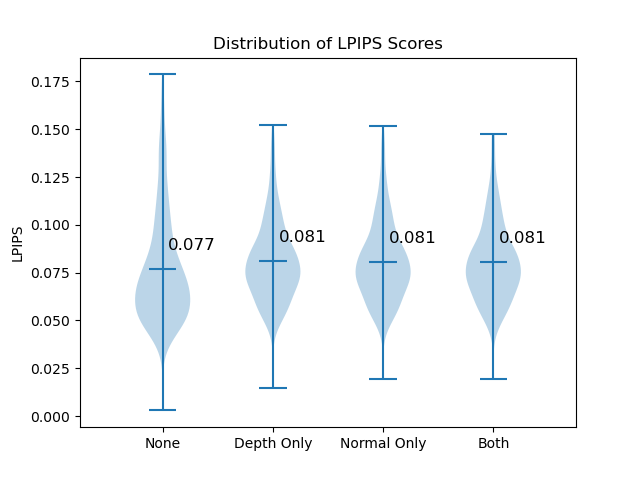
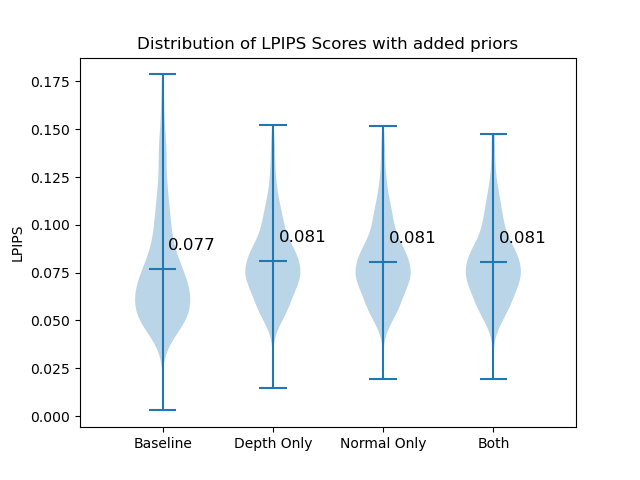
significance testing

Changed region(s): [[0.2188, 0.0625, 0.8125, 0.125], [0.1875, 0.9062, 0.3125, 0.9375]]

diff --git a/stats-code/significance_testing.py b/stats-code/significance_testing.py
@@ -1,0 +1,72 @@
+import argparse
+import numpy as np
+import os
+
+if __name__ == "__main__":
+    parser = argparse.ArgumentParser(description="Run significance testing between two sets of scores.")
+    parser.add_argument("baseline", type=str, help="Path to the baseline scores file.")
+    parser.add_argument("comparison", type=str, help="Path to the comparison scores file.")
+
+    args = parser.parse_args()
+
+    psnr_baseline = []
+    ssim_baseline = []
+    lpips_baseline = []
+    psnr_comparison = []
+    ssim_comparison = []
+    lpips_comparison = []
+
+    for file in [args.baseline, args.comparison]:
+        with open(file, "r") as f:
+            for line in f:
+                [example, psnr_str, ssim_str, lpips_str] = line.split(" ")
+                psnr = float(psnr_str)
+                ssim = float(ssim_str)
+                lpips = float(lpips_str)
+                if file == args.baseline:
+                    psnr_baseline.append(psnr)
+                    ssim_baseline.append(ssim)
+                    lpips_baseline.append(lpips)
+                else:
+                    psnr_comparison.append(psnr)
+                    ssim_comparison.append(ssim)
+                    lpips_comparison.append(lpips)
+
+    filename = args.comparison.split("/")[-1].split(".")[0]
+    
+    if os.path.exists("stats") is False:
+        os.makedirs("stats")
+    
+    for (metric_name, baseline_scores, comparison_scores) in [("PSNR", psnr_baseline, psnr_comparison), ("SSIM", ssim_baseline, ssim_comparison), ("LPIPS", lpips_baseline, lpips_comparison)]:
+        baseline_mean = np.mean(baseline_scores)
+        comparison_mean = np.mean(comparison_scores)
+        observed_diff = comparison_mean - baseline_mean
+
+        # parametric
+        synthetic_datasets = [np.random.normal(loc=np.mean(baseline_scores), scale=np.std(baseline_scores), size=len(baseline_scores)) for _ in range(300000)]
+        synthetic_diffs = [np.mean(dataset) - baseline_mean for dataset in synthetic_datasets]
+        parametric_p_value = np.mean(np.where(synthetic_diffs >= observed_diff, 1, 0))
+        with open(f"stats/parametric_significance_{metric_name.lower()}_{filename}.txt", "w") as sig_file:
+            sig_file.write(f"Observed Difference: {observed_diff:.7f}\n")
+            sig_file.write(f"P-value: {parametric_p_value:.7f}\n")
+
+        # non-parametric
+        combined_scores = np.array(baseline_scores + comparison_scores)
+        n_baseline = len(baseline_scores)
+        n_comparison = len(comparison_scores)
+
+        count = 0
+        n_resamples = 300000
+        for _ in range(n_resamples):
+            np.random.shuffle(combined_scores)
+            new_baseline = combined_scores[:n_baseline]
+            new_comparison = combined_scores[n_baseline:]
+            new_diff = np.mean(new_comparison) - np.mean(new_baseline)
+            if new_diff >= observed_diff:
+                count += 1
+        
+        p_value = count / n_resamples
+
+        with open(f"stats/non_parametric_significance_{metric_name.lower()}_{filename}.txt", "w") as sig_file:
+            sig_file.write(f"Observed Difference: {observed_diff:.7f}\n")
+            sig_file.write(f"P-value: {p_value:.7f}\n")

diff --git a/stats-code/generate_stats.py b/stats-code/generate_stats.py
@@ -1,0 +1,44 @@
+import argparse
+import matplotlib.pyplot as plt
+import numpy as np
+import os
+
+if __name__ == "__main__":
+    parser = argparse.ArgumentParser(description="Generate statistics from a scores file.")
+    parser.add_argument("input_file", type=str, help="Path to the input scores file.")
+
+    args = parser.parse_args()
+
+    all_psnr = []
+    all_ssim = []
+    all_lpips = []
+
+    with open(args.input_file, "r") as f:
+        for line in f:
+            [example, psnr_str, ssim_str, lpips_str] = line.split(" ")
+            psnr = float(psnr_str)
+            ssim = float(ssim_str)
+            lpips = float(lpips_str)
+            all_psnr.append(psnr)
+            all_ssim.append(ssim)
+            all_lpips.append(lpips)
+
+    filename = args.input_file.split("/")[-1].split(".")[0]
+    
+    if os.path.exists("stats") is False:
+        os.makedirs("stats")
+
+    with open(f"stats/{filename}_stats.txt", "w") as stats_file:
+        for (metric_name, all_values) in [("PSNR", all_psnr), ("SSIM", all_ssim), ("LPIPS", all_lpips)]:
+            fig, ax = plt.subplots()
+            plt.violinplot(all_values, showmeans=True)
+            ax.set_xticks([1], labels=[""])
+            ax.set_ylabel(metric_name)
+            ax.set_title(f"Distribution of {metric_name} Scores")
+            for (i, vs) in enumerate(all_values):
+                mean = np.mean(vs)
+                plt.text(1.05 + i, mean + 0.01, str(round(mean, 3)), fontsize = 12)
+            plt.savefig(f"stats/{filename}_{metric_name.lower()}_distribution.png")
+            mean = np.mean(all_values)
+            std = np.std(all_values)
+            stats_file.write(f"{metric_name}: Mean = {mean:.7f}, Std = {std:.7f}\n")

diff --git a/stats-code/compare_stats.py b/stats-code/compare_stats.py
@@ -1,0 +1,42 @@
+import matplotlib.pyplot as plt
+import numpy as np
+import os
+filenames = ["reference_scores", "depth_only_scores", "normals_only_scores", "both_scores"]
+
+combined_psnrs = []
+combined_ssims = []
+combined_lpips = []
+
+for filename in filenames:
+    all_psnr = []
+    all_ssim = []
+    all_lpips = []
+
+    with open(f"scores/{filename}.txt", "r") as f:
+        for line in f:
+            [example, psnr_str, ssim_str, lpips_str] = line.split(" ")
+            psnr = float(psnr_str)
+            ssim = float(ssim_str)
+            lpips = float(lpips_str)
+            all_psnr.append(psnr)
+            all_ssim.append(ssim)
+            all_lpips.append(lpips)
+    
+    combined_psnrs.append(all_psnr)
+    combined_ssims.append(all_ssim)
+    combined_lpips.append(all_lpips)
+
+if not os.path.exists("stats"):
+    os.makedirs("stats")
+
+for (metric_name, combined_values) in [("PSNR", combined_psnrs), ("SSIM", combined_ssims), ("LPIPS", combined_lpips)]:
+    fig, ax = plt.subplots()
+    violin = plt.violinplot(combined_values, showmeans=True)
+    ax.set_xticks(np.arange(1, 5), labels=[ "Baseline", "Depth Only", "Normal Only", "Both" ])
+    ax.set_xlim(0.25, 4 + 0.75)
+    ax.set_ylabel(metric_name)
+    for (i, vs) in enumerate(combined_values):
+        mean = np.mean(vs)
+        plt.text(1.05 + i, mean + 0.01, str(round(mean, 3)), fontsize = 12)
+    ax.set_title(f"Distribution of {metric_name} Scores with added priors")
+    plt.savefig(f"stats/Comparison_{metric_name.lower()}_distribution.png")
